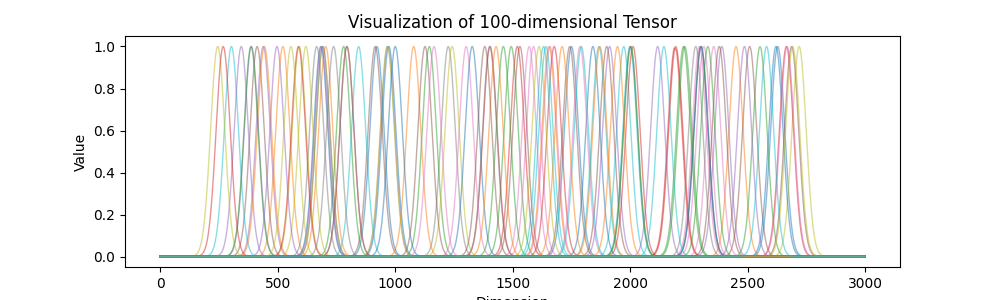
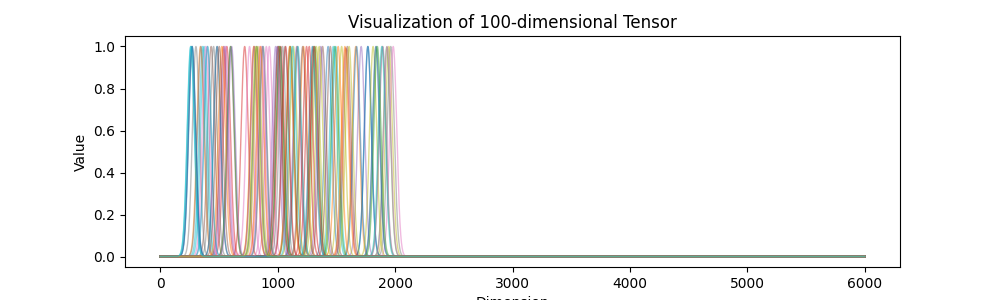
detection label

diff --git a/model/Picking/utils.py b/model/Picking/utils.py
@@ -26,6 +26,7 @@ def parse_arguments():
     parser.add_argument('--freeze',             default='y',                    help='y or n')
     parser.add_argument('--lr',                 default='0.0005',   type=float, help='Learning rate')
     parser.add_argument('--weighted_sum',       default='n',                    help='y or n')
+    parser.add_argument('--dataset',            default='tw',                   help='tw or stead')
 
     args = parser.parse_args()
     return args
@@ -36,22 +37,30 @@ def get_dataset(args):
     cwb_path = data_path + "cwbsn/"
     tsm_path = data_path + "tsmip/"
     noi_path = data_path + "cwbsn_noise/"
-    cwb = sbd.WaveformDataset(cwb_path,sampling_rate=100)
-    c_mask = cwb.metadata["trace_completeness"] == 4
-    cwb.filter(c_mask)
-    c_train, c_dev, c_test = cwb.train_dev_test()
-    tsm = sbd.WaveformDataset(tsm_path,sampling_rate=100)
-    t_mask = tsm.metadata["trace_completeness"] == 1
-    tsm.filter(t_mask)
-    t_train, t_dev, t_test = tsm.train_dev_test()
-    if args.noise_need == 'true':
-        noise = sbd.WaveformDataset(noi_path,sampling_rate=100)
-        n_train, n_dev, n_test = noise.train_dev_test()
-        train = c_train + t_train + n_train
-        dev = c_dev + t_dev + n_dev
-        test = c_test + t_test + n_test
-    elif args.noise_need == 'false':
-        train = c_train + t_train
-        dev = c_dev + t_dev
-        test = c_test + t_test
+    stead_path = data_path + "stead/"
+
+    if args.dataset == 'tw':
+        cwb = sbd.WaveformDataset(cwb_path, sampling_rate=100)
+        c_mask = cwb.metadata["trace_completeness"] == 4
+        cwb.filter(c_mask)
+        c_train, c_dev, c_test = cwb.train_dev_test()
+        tsm = sbd.WaveformDataset(tsm_path, sampling_rate=100)
+        t_mask = tsm.metadata["trace_completeness"] == 1
+        tsm.filter(t_mask)
+        t_train, t_dev, t_test = tsm.train_dev_test()
+        if args.noise_need == 'true':
+            noise = sbd.WaveformDataset(noi_path, sampling_rate=100)
+            n_train, n_dev, n_test = noise.train_dev_test()
+            train = c_train + t_train + n_train
+            dev = c_dev + t_dev + n_dev
+            test = c_test + t_test + n_test
+        elif args.noise_need == 'false':
+            train = c_train + t_train
+            dev = c_dev + t_dev
+            test = c_test + t_test
+        print('tw dataset')
+    elif args.dataset == 'stead':
+        stead = sbd.WaveformDataset(stead_path, sampling_rate=100)
+        train, dev, test = stead.train_dev_test()
+        print('stead dataset')
     return train,dev,test

diff --git a/model/Picking/train.py b/model/Picking/train.py
@@ -221,7 +221,7 @@ s_dict = {
 if args.task == 'pick':
     augmentations = [
         sbg.WindowAroundSample(list(phase_dict.keys()), samples_before=3000, windowlen=6000, selection="first", strategy="pad"),
-        sbg.RandomWindow(windowlen=window, strategy="pad",low=250,high=5750),
+        sbg.RandomWindow(windowlen=3000, strategy="pad",low=250,high=5750),
         # sbg.FixedWindow(p0=3000-ptime,windowlen=3000,strategy="pad"),
         sbg.Normalize(demean_axis=-1, amp_norm_axis=-1, amp_norm_type="peak"),
         sbg.Filter(N=5, Wn=[1,10],btype='bandpass'),
@@ -231,8 +231,8 @@ if args.task == 'pick':
     ]
 elif args.task == 'detect':
     augmentations = [
-        sbg.WindowAroundSample(list(phase_dict.keys()), samples_before=3000, windowlen=6000, selection="first", strategy="pad"),
-        sbg.RandomWindow(windowlen=window, strategy="pad",low=250,high=5750),
+        sbg.WindowAroundSample(list(phase_dict.keys()), samples_before=1000, windowlen=6000, selection="first", strategy="pad"),
+        sbg.RandomWindow(windowlen=6000, strategy="pad",low=750,high=5000),
         # sbg.FixedWindow(p0=3000-ptime,windowlen=3000,strategy="pad"),
         sbg.Normalize(demean_axis=-1, amp_norm_axis=-1, amp_norm_type="peak"),
         sbg.Filter(N=5, Wn=[1,10],btype='bandpass'),

diff --git a/model/Picking/threshold.py b/model/Picking/threshold.py
@@ -22,14 +22,15 @@ logging.getLogger().setLevel(logging.WARNING)
 # Parameter init
 args = parse_arguments()
 if args.task == 'pick':
-    test_name = 'pick_threshold'
+    test_name = 'pick_threshold' + args.dataset
 elif args.task == 'detect':
-    test_name = 'detect_threshold'
+    test_name = 'detect_threshold' + args.dataset
 model_name = args.model_name
 print(model_name)
 ptime = 500
 window = 3000
-threshold = [0.1,0.2,0.3,0.4,0.5,0.6,0.7]
+threshold = [0.1,0.2,0.3,0.4,0.5,0.6,0.7,0.8,0.9]
+# threshold = [0.7,0.8,0.9]
 device = torch.device("cuda" if torch.cuda.is_available() else "cpu")
 # =========================================================================================================
 mod_path = "/mnt/nas3/johnn9/checkpoint/"
@@ -178,7 +179,6 @@ if args.task == 'pick':
             s_mean_batch,s_std_batch,s_mae_batch = 0,0,0
             x = batch['X'].to(device)
             y = batch['y'].to(device)
-            # y = label_gen(y.to(device))
             x = model(x.to(device))
             if args.train_model == 'eqt':
                 x_tensor = torch.empty(2,len(y),window)

diff --git a/model/Picking/eval.py b/model/Picking/eval.py
@@ -30,7 +30,7 @@ device = torch.device("cuda" if torch.cuda.is_available() else "cpu")
 parl = 'y'  # y,n
 # =========================================================================================================
 mod_path = "/mnt/nas3/johnn9/checkpoint/"
-test_name = 'threshold=' + str(threshold) + '_eval'
+test_name = 'threshold=' + str(threshold) + '_eval' + args.dataset
 model_path = mod_path + model_name
 threshold_path = model_path + '/' + test_name + '.txt'
 loadmodel = model_path + '/' + 'last_checkpoint.pt' 
@@ -55,7 +55,7 @@ print("Init Complete!!!")
 # =========================================================================================================
 # DataLoad
 start_time = time.time()
-_,dev,test = get_dataset(args)
+_,_,test = get_dataset(args)
 end_time = time.time()
 elapsed_time = end_time - start_time
 print("=====================================================")

diff --git a/model/Picking/test.py b/model/Picking/test.py
@@ -50,8 +50,8 @@ phase_dict = {
 }
 
 augmentations = [
-    sbg.WindowAroundSample(list(phase_dict.keys()), samples_before=3000, windowlen=6000, selection="first", strategy="pad"),
-    sbg.RandomWindow(windowlen=3000, strategy="pad",low=250,high=5750),
+    sbg.WindowAroundSample(list(phase_dict.keys()), samples_before=1000, windowlen=6000, selection="first", strategy="pad"),
+    sbg.RandomWindow(windowlen=6000, strategy="pad",low=750,high=5000),
     # sbg.FixedWindow(p0=3000-ptime,windowlen=3000,strategy="pad"),
     sbg.Normalize(demean_axis=-1, amp_norm_axis=-1, amp_norm_type="peak"),
     sbg.Filter(N=5, Wn=[1,10],btype='bandpass'),
